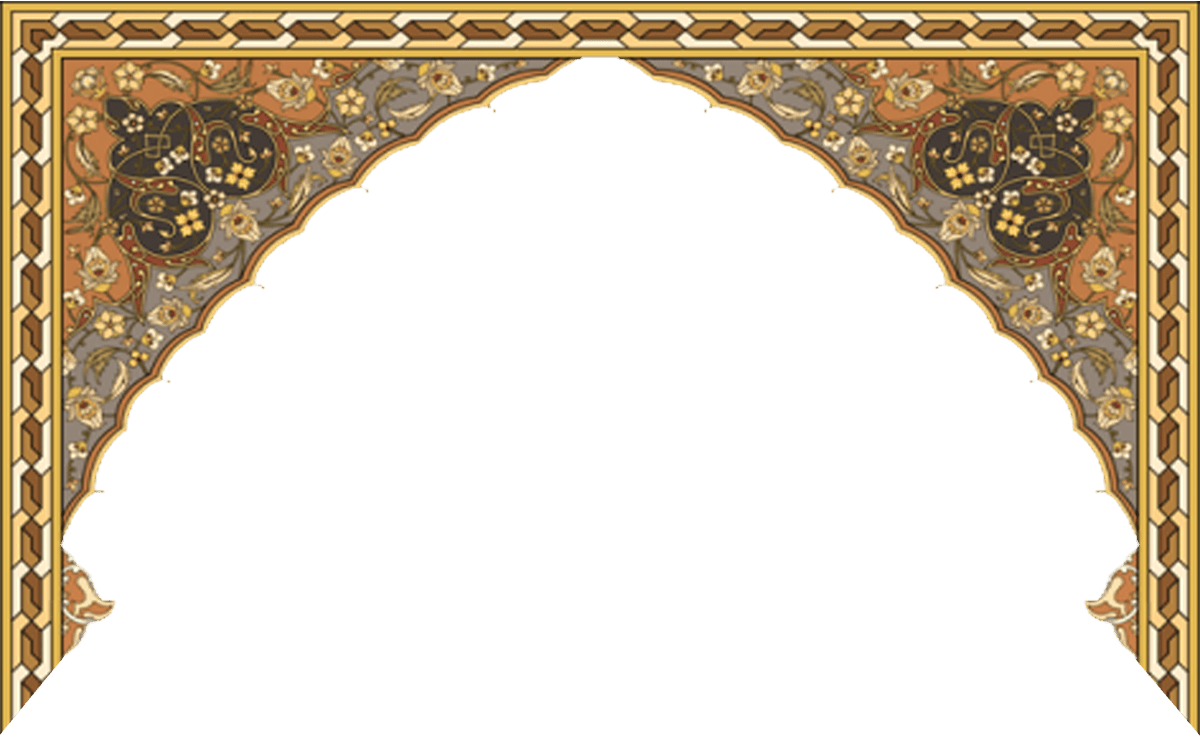
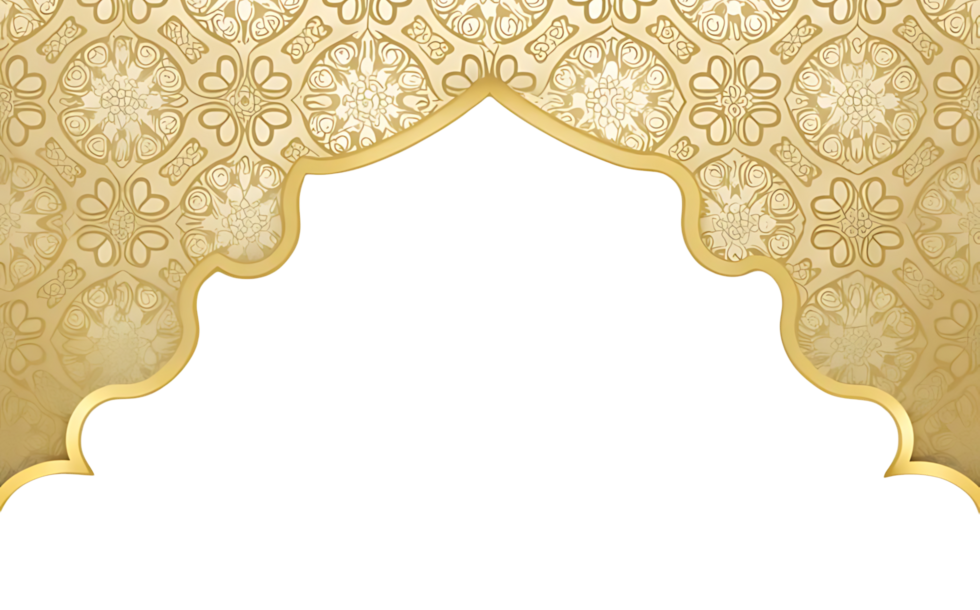
feat: implement theme provider and dynamic home app bar with prayer-specific styling

diff --git a/lib/core/theme/tokens/typography.dart b/lib/core/theme/tokens/typography.dart
@@ -7,23 +7,36 @@ class AppTypography {
   static const String _fontFamily = 'Tajawal';
 
   // Headlines
-  static TextStyle get h1 =>
-      TextStyle(fontSize: 24.sp, fontWeight: FontWeight.bold);
+  static TextStyle get h1 => TextStyle(
+    fontFamily: _fontFamily,
+    fontSize: 24.sp,
+    fontWeight: FontWeight.bold,
+  );
 
-  static TextStyle get h2 =>
-      TextStyle(fontSize: 20.sp, fontWeight: FontWeight.bold);
+  static TextStyle get h2 => TextStyle(
+    fontFamily: _fontFamily,
+    fontSize: 20.sp,
+    fontWeight: FontWeight.bold,
+  );
 
-  static TextStyle get h3 =>
-      TextStyle(fontSize: 15.sp, fontWeight: FontWeight.bold);
+  static TextStyle get h3 => TextStyle(
+    fontFamily: _fontFamily,
+    fontSize: 15.sp,
+    fontWeight: FontWeight.bold,
+  );
 
   // Body Text
-  static TextStyle get bodyLarge => TextStyle(fontSize: 14.sp);
+  static TextStyle get bodyLarge =>
+      TextStyle(fontFamily: _fontFamily, fontSize: 14.sp);
 
-  static TextStyle get bodyMedium => TextStyle(fontSize: 13.sp);
+  static TextStyle get bodyMedium =>
+      TextStyle(fontFamily: _fontFamily, fontSize: 13.sp);
 
-  static TextStyle get bodySmall => TextStyle(fontSize: 11.sp);
+  static TextStyle get bodySmall =>
+      TextStyle(fontFamily: _fontFamily, fontSize: 11.sp);
 
-  static TextStyle get label => TextStyle(fontSize: 10.sp);
+  static TextStyle get label =>
+      TextStyle(fontFamily: _fontFamily, fontSize: 10.sp);
 
   static TextStyle get button => TextStyle(
     fontFamily: _fontFamily,

diff --git a/lib/features/home/widgets/home_features_grid.dart b/lib/features/home/widgets/home_features_grid.dart
@@ -57,9 +57,21 @@ class HomeFeaturesGrid extends StatelessWidget {
             icon: AppAssets.qiblah,
             route: const QiblahRoute(),
           ),
-          const _FeatureItem(title: "قصص الأنبياء", icon: AppAssets.stories),
-          const _FeatureItem(title: "المسبحة", icon: AppAssets.misbaha),
-          const _FeatureItem(title: "بث مباشر", icon: AppAssets.live),
+          _FeatureItem(
+            title: "قصص الأنبياء",
+            icon: AppAssets.stories,
+            route: const ProphetsListRoute(),
+          ),
+          _FeatureItem(
+            title: "المسبحة",
+            icon: AppAssets.misbaha,
+            route: const MisbahaRoute(),
+          ),
+          _FeatureItem(
+            title: "بث مباشر",
+            icon: AppAssets.live,
+            route: const LiveStreamRoute(),
+          ),
         ]),
       ),
     );

diff --git a/lib/core/widgets/app_scaffold.dart b/lib/core/widgets/app_scaffold.dart
@@ -42,15 +42,16 @@ class AppScaffold extends StatelessWidget {
       appBar: appBar ?? (title != null ? BaseAppBar(title: title) : null),
       drawer: drawer,
       body: Stack(
+        fit: StackFit.expand,
         children: [
           // Subtle Mesh Gradient Blobs
           Positioned(
-            bottom: -50.h,
-            left: -50.w,
+            bottom: 0.h,
+            left: 0.w,
             child: Opacity(
               opacity: 0.1,
               child: Image.asset(
-                AppAssets.around,
+                AppAssets.bg,
                 width: 300.w,
                 color: context.colors.primary,
               ),

diff --git a/lib/core/widgets/base_app_bar.dart b/lib/core/widgets/base_app_bar.dart
@@ -109,7 +109,7 @@ class BaseAppBar extends StatelessWidget implements PreferredSizeWidget {
       child: Padding(
         padding: EdgeInsets.only(right: 8.w),
         child: InkWell(
-          onTap: () => context.router.back(),
+          onTap: () => context.maybePop(),
           borderRadius: BorderRadius.circular(context.corners.rc360),
           child: Container(
             width: 38.w,

diff --git a/lib/core/utils/constants/app_assets.dart b/lib/core/utils/constants/app_assets.dart
@@ -8,6 +8,7 @@ class AppAssets {
   static const String logo = '$_imagesPath/thekr.png';
   static const String quranLogo = '$_imagesPath/quran_logo.png';
   static const String hero = '$_imagesPath/hero.png';
+  static const String bg = '$_imagesPath/bg.png';
 
   // Navigation / Main Features
   static const String quran = '$_imagesPath/quran.png';

diff --git a/lib/features/asma_allah/widgets/asma_allah_grid_item.dart b/lib/features/asma_allah/widgets/asma_allah_grid_item.dart
@@ -28,7 +28,6 @@ class AsmaAllahGridItem extends StatelessWidget {
             textAlign: TextAlign.center,
             style: AppTypography.bodyMedium.copyWith(
               fontWeight: FontWeight.bold,
-              color: context.colors.primary,
               fontFamily: 'hafs',
               fontSize: 14.sp,
             ),
